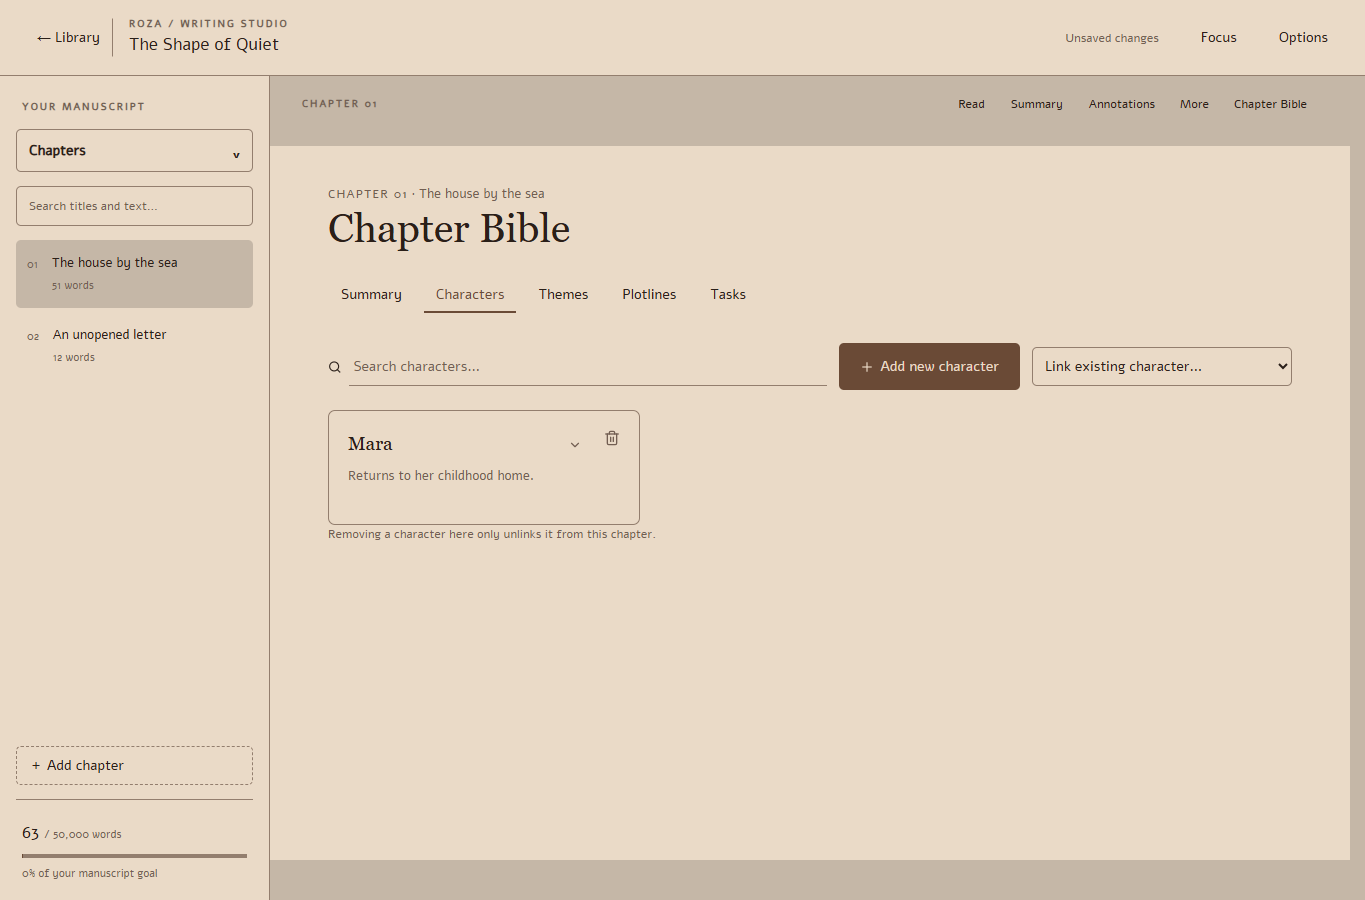
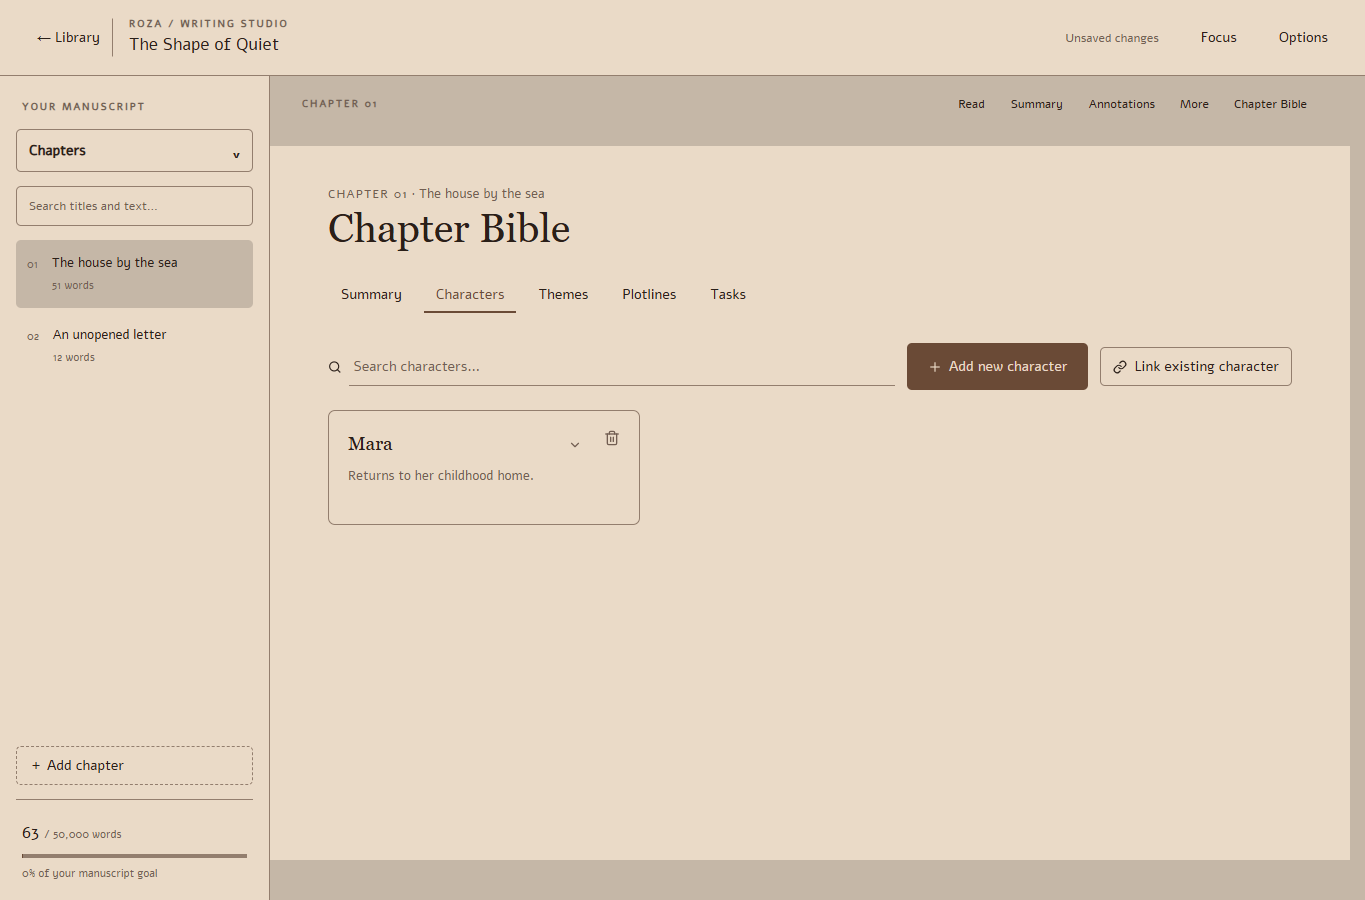
Link chapter entities through checkbox modal and confirm removals

Changed region(s): [[0.6154, 0.3733, 0.9231, 0.4356], [0.2462, 0.5911, 0.4615, 0.6222]]

diff --git a/frontend/src/components/WritingStudio/ChapterElements.tsx b/frontend/src/components/WritingStudio/ChapterElements.tsx
@@ -1,5 +1,13 @@
-import { useState } from "react";
-import { FiPlus, FiSearch, FiTrash2, FiChevronDown } from "react-icons/fi";
+import { useEffect, useRef, useState } from "react";
+import { createPortal } from "react-dom";
+import { ConfirmDialog } from "../Reader/ReaderArchiveDialog";
+import {
+  FiPlus,
+  FiSearch,
+  FiTrash2,
+  FiChevronDown,
+  FiLink,
+} from "react-icons/fi";
 import {
   Chapter,
   StoryKind,
@@ -27,6 +35,10 @@ export function ChapterElements({
 }) {
   const [search, setSearch] = useState("");
   const [creating, setCreating] = useState(false);
+  const [linking, setLinking] = useState(false);
+  const [removing, setRemoving] = useState<{ id: string; name: string } | null>(
+    null,
+  );
   const [opened, setOpened] = useState<string | null>(null);
   const book = store.book;
   const singular =
@@ -39,9 +51,7 @@ export function ChapterElements({
   const linked = book[kind].filter(
     e => !e.isArchived && associations.some(a => a.entityId === e.id),
   );
-  const available = book[kind].filter(
-    e => !e.isArchived && !associations.some(a => a.entityId === e.id),
-  );
+  const entities = book[kind].filter(e => !e.isArchived);
   const matches = linked.filter(e =>
     `${e.name} ${plainText(e.description)} ${associations.find(a => a.entityId === e.id)?.note || ""}`
       .toLocaleLowerCase()
@@ -76,26 +86,9 @@ export function ChapterElements({
         >
           <FiPlus aria-hidden="true" /> Add new {singular}
         </button>
-        {!!available.length && (
-          <select
-            aria-label={`Associate ${kind} with chapter`}
-            value=""
-            onChange={e => {
-              if (e.target.value) {
-                link(kind, e.target.value);
-                setOpened(e.target.value);
-                setSearch("");
-              }
-            }}
-          >
-            <option value="">Link existing {singular}…</option>
-            {available.map(e => (
-              <option key={e.id} value={e.id}>
-                {e.name}
-              </option>
-            ))}
-          </select>
-        )}
+        <button className="cp-link-existing" onClick={() => setLinking(true)}>
+          <FiLink aria-hidden="true" /> Link existing {singular}
+        </button>
       </header>
       {creating && (
         <form
@@ -174,7 +167,9 @@ export function ChapterElements({
                   className="cp-element-delete"
                   aria-label={`Remove ${entity.name} from chapter`}
                   title="Remove from this chapter"
-                  onClick={() => link(kind, entity.id, true)}
+                  onClick={() =>
+                    setRemoving({ id: entity.id, name: entity.name })
+                  }
                 >
                   <FiTrash2 aria-hidden="true" size={16} />
                 </button>
@@ -256,9 +251,127 @@ export function ChapterElements({
             : `No ${kind} linked yet. Add a new ${singular} or link one from your book.`}
         </p>
       )}
-      <p className="cp-elements-hint">
-        Removing a {singular} here only unlinks it from this chapter.
-      </p>
+      {linking && (
+        <LinkEntitiesDialog
+          kind={kind}
+          entities={entities}
+          linkedIds={associations.map(a => a.entityId)}
+          disabled={!!store.recovery}
+          onClose={() => setLinking(false)}
+          onCheck={(id, checked) => {
+            if (checked) {
+              link(kind, id);
+              setSearch("");
+            } else {
+              const entity = entities.find(e => e.id === id);
+              if (entity) setRemoving({ id, name: entity.name });
+            }
+          }}
+        />
+      )}
+      {removing && (
+        <ConfirmDialog
+          heading={`Remove ${singular} from chapter?`}
+          message={`Remove “${removing.name}” from this chapter? This only unlinks the ${singular}; it remains in your book and other chapters.`}
+          confirmLabel="Remove from chapter"
+          icon={<FiTrash2 aria-hidden="true" />}
+          onCancel={() => setRemoving(null)}
+          onConfirm={() => {
+            link(kind, removing.id, true);
+            setRemoving(null);
+          }}
+        />
+      )}
     </div>
+  );
+}
+
+function LinkEntitiesDialog({
+  kind,
+  entities,
+  linkedIds,
+  disabled,
+  onClose,
+  onCheck,
+}: {
+  kind: StoryKind;
+  entities: { id: string; name: string }[];
+  linkedIds: string[];
+  disabled: boolean;
+  onClose: () => void;
+  onCheck: (id: string, checked: boolean) => void;
+}) {
+  const dialog = useRef<HTMLDialogElement>(null);
+  const [search, setSearch] = useState("");
+  useEffect(() => {
+    const previous = document.activeElement as HTMLElement | null;
+    const element = dialog.current!;
+    const overflow = document.body.style.overflow;
+    element.showModal();
+    document.body.style.overflow = "hidden";
+    return () => {
+      element.close();
+      document.body.style.overflow = overflow;
+      previous?.focus();
+    };
+  }, []);
+  const matches = entities.filter(e =>
+    e.name.toLocaleLowerCase().includes(search.toLocaleLowerCase()),
+  );
+  return createPortal(
+    <dialog
+      ref={dialog}
+      className="ws cp-link-dialog"
+      aria-label={`Link existing ${kind}`}
+      onCancel={e => {
+        e.preventDefault();
+        onClose();
+      }}
+      onKeyDown={e => e.stopPropagation()}
+      onClick={e => {
+        if (e.target === e.currentTarget) onClose();
+      }}
+    >
+      <header>
+        <h2>Link existing {kind}</h2>
+        <button aria-label="Close entity picker" onClick={onClose}>
+          ×
+        </button>
+      </header>
+      <input
+        type="search"
+        autoFocus
+        aria-label={`Search book ${kind}`}
+        placeholder={`Search ${kind}…`}
+        value={search}
+        onChange={e => setSearch(e.target.value)}
+      />
+      <fieldset disabled={disabled} className="cp-link-options">
+        {matches.map(entity => (
+          <label key={entity.id}>
+            <input
+              type="checkbox"
+              checked={linkedIds.includes(entity.id)}
+              onChange={e => onCheck(entity.id, e.target.checked)}
+            />
+            <span dir="auto">{entity.name}</span>
+          </label>
+        ))}
+        {!matches.length && (
+          <p className="ws-muted">
+            {search
+              ? "No matching entries."
+              : `No ${kind} in this book yet. Create one from the chapter toolbar.`}
+          </p>
+        )}
+      </fieldset>
+      <footer>
+        <span>{linkedIds.length} linked to this chapter</span>
+        <button className="ws-primary" onClick={onClose}>
+          Done
+        </button>
+      </footer>
+    </dialog>,
+    document.body,
   );
 }

diff --git a/frontend/src/components/WritingStudio/chapterPlanning.css b/frontend/src/components/WritingStudio/chapterPlanning.css
@@ -466,3 +466,70 @@
     width: auto;
   }
 }
+.cp-elements-tools .cp-link-existing {
+  border-color: var(--ws-line);
+  display: inline-flex;
+  align-items: center;
+  gap: 7px;
+}
+.cp-link-dialog {
+  width: min(500px, calc(100vw - 32px));
+  max-height: 85dvh;
+  margin: auto;
+  padding: 24px;
+  border: 1px solid var(--ws-line);
+  border-radius: 10px;
+  background: var(--ws-paper);
+  color: var(--ws-ink);
+}
+.cp-link-dialog::backdrop {
+  background: color-mix(in srgb, black 32%, transparent);
+}
+.cp-link-dialog header,
+.cp-link-dialog footer {
+  display: flex;
+  align-items: center;
+  justify-content: space-between;
+  gap: 16px;
+}
+.cp-link-dialog h2 {
+  font:
+    400 25px Georgia,
+    serif;
+  margin: 0;
+  text-transform: none;
+}
+.cp-link-dialog > input {
+  width: 100%;
+  margin-block: 20px 12px;
+}
+.cp-link-options {
+  border: 0;
+  padding: 0;
+  margin: 0;
+  max-height: 48dvh;
+  overflow-y: auto;
+}
+.cp-link-options label {
+  display: flex;
+  align-items: center;
+  gap: 12px;
+  padding: 12px 6px;
+  border-bottom: 1px solid var(--ws-line);
+  cursor: pointer;
+}
+.cp-link-options input {
+  width: 17px;
+  height: 17px;
+  accent-color: var(--ws-accent);
+  flex-shrink: 0;
+}
+.cp-link-options span {
+  overflow-wrap: anywhere;
+  min-width: 0;
+}
+.cp-link-dialog footer {
+  margin-top: 20px;
+  font-size: 12px;
+  color: var(--ws-muted);
+}

diff --git a/docs/chapter-planning/README.md b/docs/chapter-planning/README.md
@@ -6,7 +6,7 @@ Branch: `feature/chapter-planning`, based on verified `origin/main` commit `04f0
 
 In Chapters, the Chapter Bible button immediately after More switches the manuscript page to a chapter workspace with Characters, Themes, Plotlines, Tasks and Summary navigation. Press it again, or choose Read/Summary/Annotations, to return to writing. Chapter Preview retains its collapsible Chapter Planning inspector. Both views edit the same shared records. A muted chapter number and name sit above the Chapter Bible heading, the page matches manuscript editor width, and save state is shown only in the app header. Summary editing preserves rich text; character and plotline contribution notes are plain text stored on the chapter association.
 
-The Characters tab presents searchable cards; Themes and Plotlines use searchable rows. Header actions create new shared entries, and opening a card/row exposes its shared description and separate chapter contribution. Trash icons remove the chapter association and preserve the shared entry. Summary retains its rich-text editor.
+The Characters tab presents searchable cards; Themes and Plotlines use searchable rows. Header actions create new shared entries, and opening a card/row exposes its shared description and separate chapter contribution. Link existing opens a searchable checkbox modal; checking an entry links it immediately. Trash icons and unchecking linked entries open a confirmation explaining that removal only affects the chapter association and preserves the shared entry. The explanation is shown in the confirmation rather than beneath the tab. Summary retains its rich-text editor.
 
 The Tasks tab embeds the existing Trello-style board, scoped to this chapter. It supports card creation, editing, completion/reopening, deletion, drag between columns, and linking existing book tasks. Chapter and book task boards share list creation, renaming, sorting and deletion controls. Lists and their tasks are shared; chapter deletion confirmations identify that scope, including tasks outside the chapter. Tasks are existing book task-board cards, extended with optional `chapterId` and `completed`. The chapter board and preview inspector edit these same cards; Open in book board opens the original card and list. The board supports chapter assignment/removal and a chapter filter. Completion is explicit, independent of editable board list names.
 
